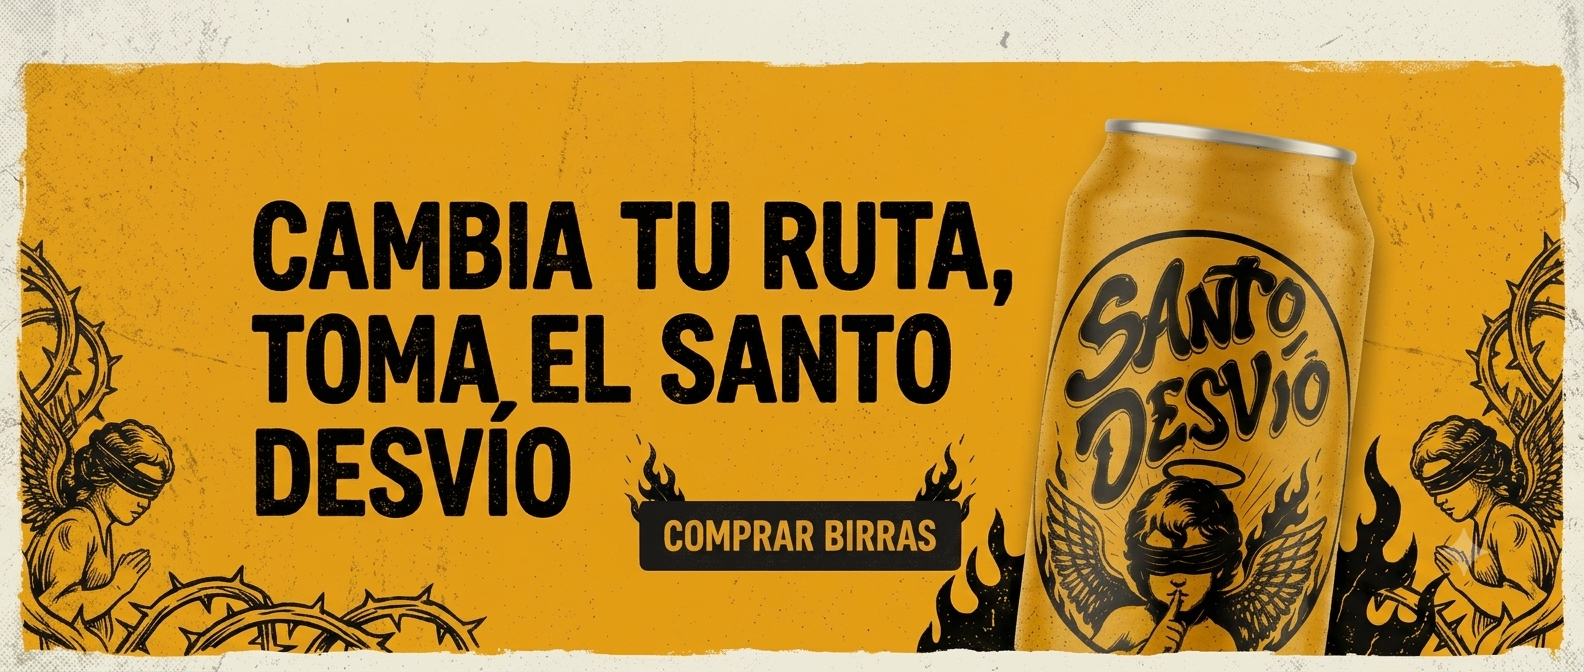
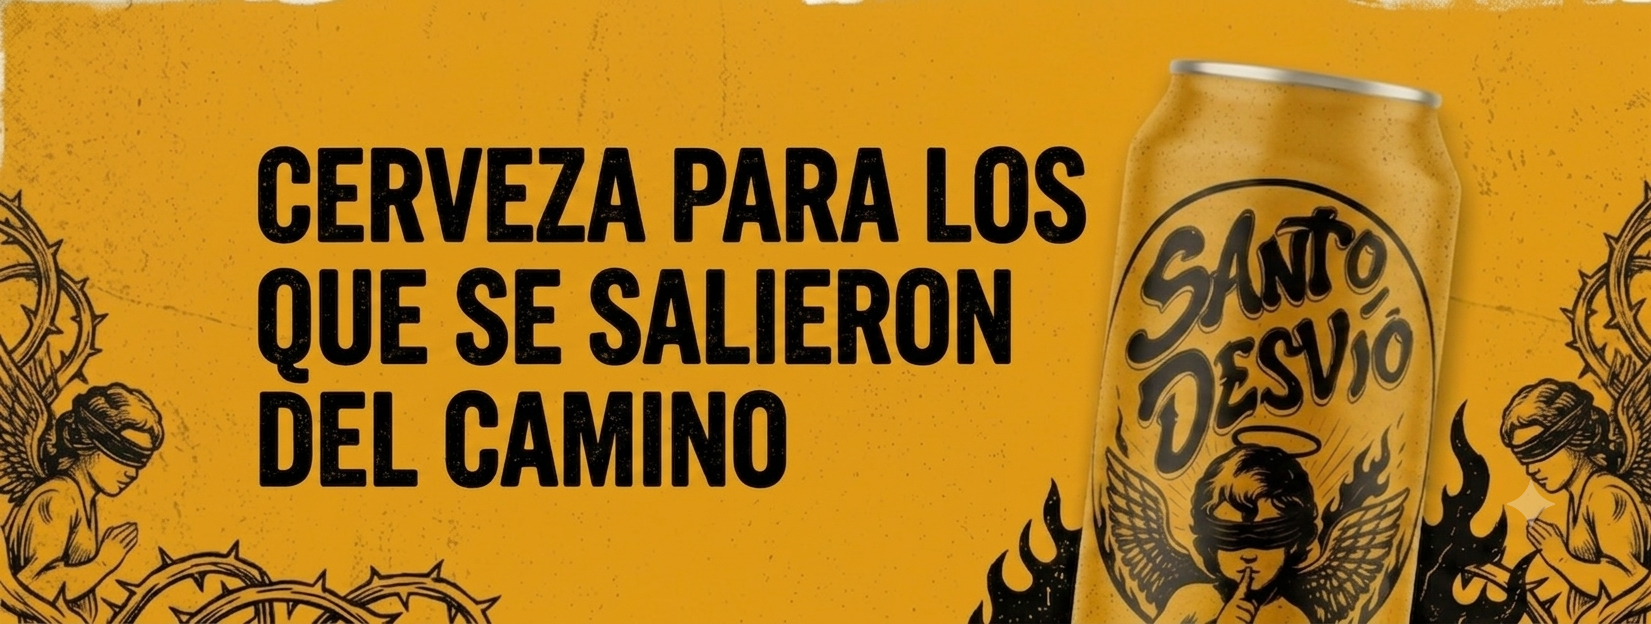
avances varios

diff --git a/app/fabrica/page.js b/app/fabrica/page.js
@@ -10,16 +10,16 @@ export default function FabricaPage() {
   return (
     <main className="min-h-screen bg-black text-zinc-100 py-16 px-4 sm:px-6 lg:px-8">
       <div className="max-w-5xl mx-auto space-y-20">
-        
+
         {/* --- SECCIÓN 1: HISTORIA --- */}
         <section className="grid grid-cols-1 lg:grid-cols-2 gap-12 items-center">
-          
+
           {/* Columna Imagen */}
           <div className="relative group">
             <div className="absolute -inset-1 bg-gradient-to-r from-[#D4AF37]/50 to-amber-700/30 rounded-2xl blur-lg opacity-40 group-hover:opacity-75 transition duration-500"></div>
             <div className="relative aspect-4/3 w-full overflow-hidden rounded-2xl border border-[#D4AF37]/30 bg-zinc-950 shadow-2xl">
               <Image
-                src="/fabric.png" // Asegúrate de colocar una foto de la fábrica en /public
+                src="/fabrica.jpeg"
                 alt="Fábrica de Cerveza Santo Desvío"
                 fill
                 priority
@@ -35,18 +35,28 @@ export default function FabricaPage() {
                 El Origen
               </span>
             </div>
-            
+
             <h1 className="text-3xl sm:text-4xl font-extrabold text-zinc-100 tracking-tight uppercase">
-              Nuestra <span className="text-[#D4AF37]">Historia</span>
+              ACA EMPEZÓ <span className="text-[#D4AF37]">EL DESVÍO</span>
             </h1>
 
             <div className="space-y-4 text-zinc-400 text-sm sm:text-base leading-relaxed">
               <p>
-                Lorem ipsum dolor sit amet, consectetur adipiscing elit. Sed do eiusmod tempor incididunt ut labore et dolore magna aliqua. Ut enim ad minim veniam, quis nostrud exercitation ullamco laboris nisi ut aliquip ex ea commodo consequat.
-              </p>
+                No tercerizamos la cerveza. No compramos una historia para pegarle una etiqueta.              </p>
               <p>
-                Duis aute irure dolor in reprehenderit in voluptate velit esse cillum dolore eu fugiat nulla pariatur. Excepteur sint occaecat cupidatat non proident, sunt in culpa qui officia deserunt mollit anim id est laborum.
-              </p>
+                La hacemos nosotros acá 
+              </p><br></br>
+              
+              <p>En nuestra fábrica diseñamos cada receta, cocinamos cada lote y seguimos el proceso de principio a fin. Entre acero, fuego, frío y muchas horas de laburo transformamos agua, malta, lúpulo y levadura en cerveza con identidad propia.
+                Acá no hay una línea de producción gigante ni una cerveza pensada para gustarle a todo el mundo. Hay decisiones, pruebas, ajustes, errores, aprendizaje y una obsesión bastante simple: que cada vaso que salga de esta fábrica tenga algo para decir.
+                Creemos en hacer las cosas cerca, en conocer lo que producimos y cuidar cada etapa del proceso. Desde la receta hasta el momento en que la cerveza llega fría al vaso.
+                No buscamos hacer cerveza para todo el mundo.</p> <br></br>
+
+              <p>	Buscamos hacer cerveza que valga la pena recordar.					</p>
+
+              <p>	Porque Santo Desvío no nació en una agencia, ni en una presentación de marketing.							</p><br></br>
+
+              <p>	Nació acá. Entre tanques, fuego y lupulo.				<br></br> 	Santo Desvío · Fábrica rebelde de cerveza.				</p>
             </div>
 
             {/* Ficha de Valores Rápidos */}
@@ -70,7 +80,7 @@ export default function FabricaPage() {
 
           <div className="relative z-10 max-w-2xl mx-auto space-y-6">
             <span className="text-[#D4AF37] text-4xl">🍻</span>
-            
+
             <h2 className="text-2xl sm:text-4xl font-black text-zinc-100 tracking-wide uppercase">
               La cerveza no solo se toma, <br />
               <span className="text-[#D4AF37]">se celebra.</span>

diff --git a/components/UserInt/banner.js b/components/UserInt/banner.js
@@ -4,16 +4,46 @@ import Link from 'next/link';
 export default function HeroBanner() {
   return (
     <section className="w-full relative overflow-hidden bg-santo-dark">
-      <div className="w-full relative h-[320px] sm:h-[450px] md:h-[600px] lg:h-[700px]">
-    <Link href="/birras">
-        <Image 
-          src="/banner.jpeg" 
-          alt="Santo Desvío Banner"
-          fill
-          className="object-fit object-center"
-          priority
-        />
-     </Link>
+      {/* 
+        Cambiamos la altura fija por un aspect ratio:
+        - Mobile: aspect-[4/3] o aspect-square (mantiene la proporción sin aplastar)
+        - Tablet/Desktop: aspect-[21/9] o aspect-[16/7] 
+      */}
+      <div className="w-full relative aspect-[4/3] sm:aspect-[16/9] md:aspect-[21/9] min-h-[300px]">
+        
+        {/* Banner Cliqueable */}
+        <Link href="/birras" className="block w-full h-full relative z-0">
+          <Image 
+            src="/banner.png" 
+            alt="Santo Desvío Banner"
+            fill
+            sizes="100vw"
+            className="object-cover object-left-center sm:object-center"
+            priority
+          />
+        </Link>
+
+        {/* Contenedor de Botones Flotantes */}
+        <div className="absolute z-10 bottom-4 sm:bottom-8 md:bottom-12 left-[4%] sm:left-[6%] flex flex-wrap gap-2.5 sm:gap-4 max-w-[92%] sm:max-w-[50%]">
+          
+          {/* Botón 1: Principal */}
+          <Link 
+            href="/birras" 
+            className="bg-[#F2A21B] hover:bg-[#d48b12] text-[#121212] font-santo-alt text-[10px] xs:text-xs sm:text-base md:text-lg font-bold tracking-wider uppercase px-3 py-1.5 sm:px-6 sm:py-3 rounded border-2 border-[#F2A21B] shadow-lg transition-all transform hover:scale-105"
+          >
+            Nuestras Birras
+          </Link>
+
+          {/* Botón 2: Secundario */}
+          <Link 
+            href="/festival" 
+            className="bg-[#121212]/80 hover:bg-[#121212] text-[#F0EDE4] hover:text-[#F2A21B] font-santo-alt text-[10px] xs:text-xs sm:text-base md:text-lg font-bold tracking-wider uppercase px-3 py-1.5 sm:px-6 sm:py-3 rounded border-2 border-[#F2A21B] shadow-lg backdrop-blur-sm transition-all transform hover:scale-105"
+          >
+            Próximo Evento
+          </Link>
+
+        </div>
+
       </div>
     </section>
   );

diff --git a/components/UserInt/navbar.js b/components/UserInt/navbar.js
@@ -14,13 +14,14 @@ export default function Navbar() {
     <header className="bg-[#121212] relative z-50 pt-2 pb-2 mt-4 sm:mt-8">
       {/* Marco con doble borde dorado */}
       <div className="max-w-7xl mx-auto px-4">
+        {/* Contenedor padre con alineación vertical (items-center) */}
         <div className="border-2 border-[#F2A21B] py-2 px-4 md:px-6 relative flex items-center justify-between">
 
-          {/* Botón Hamburguesa (solo visible en pantallas pequeñas) */}
+          {/* Botón Hamburguesa con Flexbox para centrado interno */}
           <button
             onClick={toggleMenu}
             type="button"
-            className="md:hidden text-[#F2A21B] hover:text-white focus:outline-none p-1"
+            className="md:hidden text-[#F2A21B] hover:text-white focus:outline-none p-1 flex items-center justify-center"
             aria-label="Abrir menú"
           >
             <svg
@@ -63,7 +64,6 @@ export default function Navbar() {
 
           {/* Enlaces Derecha (Desktop) */}
           <div className="hidden md:flex items-center gap-8 font-santo-alt text-lg md:text-xl text-white tracking-wider uppercase">
-            {/*//<a href="festival" className="hover:text-santo-ochre transition-colors">Eventos</a>/*/}
             <a href="merch" className="hover:text-santo-ochre transition-colors">Merch</a>
             <a href="contacto" className="hover:text-santo-ochre transition-colors">Contacto</a>
           </div>

diff --git a/app/festival/page.js b/app/festival/page.js
@@ -19,7 +19,7 @@ export default function FestivalPage() {
         <Link href="/entradas" className="block relative overflow-hidden rounded-2xl border-2 border-[#D4AF37]/30 group-hover:border-[#D4AF37] transition-all duration-300 shadow-[0_0_30px_rgba(212,175,55,0.15)] group-hover:shadow-[0_0_50px_rgba(212,175,55,0.35)]">
           
           <Image
-            src="/flyer-santo-desvio.jpg"
+            src="/FESTIVAL.jpeg"
             alt="Santo Desvío Festival Vol. I - Fiesta de Cerveza Artesanal"
             width={700}
             height={1050}
